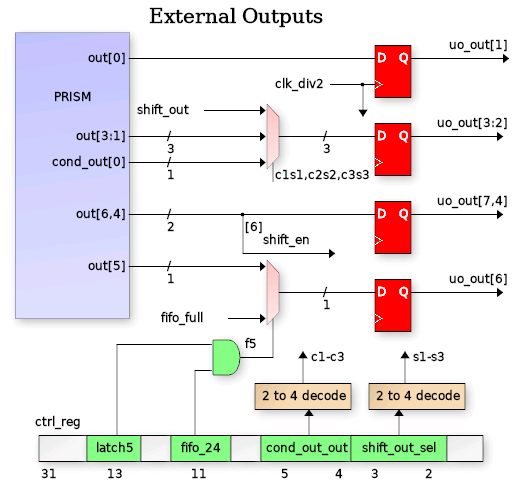
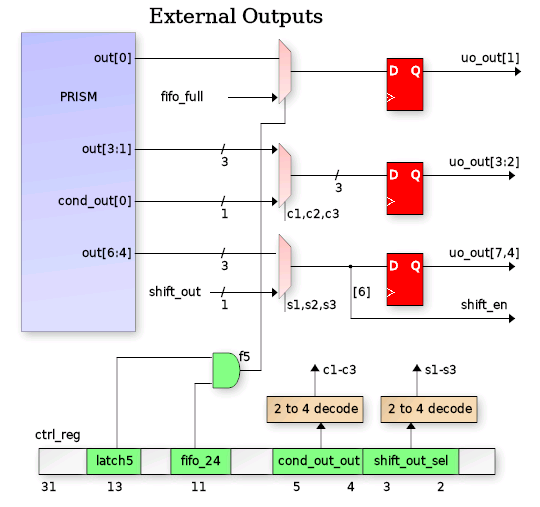
Reworked ws2812 chroma and updated documentation.

diff --git a/test/test.py b/test/test.py
@@ -61,6 +61,7 @@ async def test_project(dut):
     input_shift = input_value
     spi_data = []
     spi_rx_data = []
+    grb = 0
     chroma = ''
     spi_transfer = False
     rx_byte = 0
@@ -166,6 +167,52 @@ async def test_project(dut):
 
             # Clear spi_transfer so we don't send over and over
             spi_transfer = False;
+
+    async def simulate_ws2822_slave():
+        nonlocal chroma, grb
+        val_str = dut.uo_out.value.binstr.replace('x', '0').replace('z', '0')
+        prev_val = int(val_str, 2) & 2
+        baud = 16
+        grb  = 0
+        clk_count = 0
+        bit_count = 0;
+
+        while True:
+            # Wait for either posedge uo_out[7] (shift clk) or posedge uo_out[2] (store)
+            await RisingEdge(dut.clk)
+            if chroma != 'ws2812':
+               continue
+
+            # Keep track of the number of clocks between edges
+            clk_count += 1
+
+            # Test for change in WS2812 data line
+            val_str = dut.uo_out.value.binstr.replace('x', '0').replace('z', '0')
+            val = int(val_str, 2) & 2
+            if val == prev_val:
+               continue
+
+            # Test if the count exceeded the "reset bus" value
+            if clk_count >= 1280 and prev_val == 0:
+               clk_count = 0 
+               grb = 0
+               prev_val = val
+               continue
+            elif prev_val == 0:
+               prev_val = val
+               clk_count = 0
+               continue
+
+            # Test for transition from HIGH to LOW
+            if prev_val != 0:
+               # Shift the grb data
+               grb <<= 1
+
+               # Test for a '1' bit
+               if clk_count >= 35:
+                  grb |= 1
+
+            prev_val = val
 
     async def load_chroma(chroma, ctrl_reg):
         '''
@@ -316,28 +363,37 @@ async def test_project(dut):
         # Program count1_preload register with GRB data to send
         await tqv.write_word_reg(0x20, 0x00FF5367)
 
+        chroma = 'ws2812'
+
         # Set host bit 0 to start transfer
         await tqv.write_byte_reg(0x1b, 0x01)
 
-        for i in range(5000):
+        for i in range(6000):
             await RisingEdge(dut.clk)
 
         # Test if the interrupt was set
         dut._log.info(f"    Testing if Interrupt was set")
         assert await tqv.read_word_reg(0) & 0x80000000 != 0
 
-        # Test if the interrupt was set
+        # Test if data was received
+        assert grb == 0xFF5367
+
+        # Write new data using auto-toggle of host_in[0]
         dut._log.info(f"    Writing new data using auto-toggle")
         await tqv.write_word_reg(0x21, 0x0036FE0C)
 
         dut._log.info(f"    Testing if Interrupt was cleared")
         assert await tqv.read_word_reg(0) & 0x80000000 != 0
 
+        dut._log.info(f"    Testing if host_in[0] toggled")
+        assert await tqv.read_byte_reg(0x1b) == 0
+
         
     # Start the simulations
     cocotb.start_soon(simulate_74165())
     cocotb.start_soon(simulate_74595())
     cocotb.start_soon(simulate_spimaster())
+    cocotb.start_soon(simulate_ws2822_slave())
 
     # Interact with your design's registers through this TinyQV class.
     # This will allow the same test to be run when your design is integrated
@@ -404,12 +460,13 @@ async def test_project(dut):
     # Okay, now load up a real design and see if it does anything
     # This is the 24-Bit GPIO Chroma
     # ===========================================================
+    
+    dut._log.info("Testing ws2812 Chroma")
+    await test_chroma_ws2812()
+
     dut._log.info("Testing gpio24 Chroma")
     await test_chroma_gpio24()
  
     dut._log.info("Testing spislave Chroma")
     await test_chroma_spislave()
-    
-    dut._log.info("Testing ws2812 Chroma")
-    await test_chroma_ws2812()
     

diff --git a/chromas/output/chroma_ws2812.c b/chromas/output/chroma_ws2812.c
@@ -18,7 +18,7 @@ const uint32_t chroma_ws2812[] =
    0x00000aa0, 0x0a01b016, 
    0x00000960, 0x0a01900f, 
    0x00000a90, 0x0a01501e, 
-   0x000009b9, 0x000031b0, 
+   0x000009b9, 0x00003190, 
 
 };
 const uint32_t chroma_ws2812_count   = 8;

diff --git a/chromas/output/chroma_ws2812.py b/chromas/output/chroma_ws2812.py
@@ -14,6 +14,6 @@ chroma_ws2812 = [
    0x00000aa0, 0x0a01b016, 
    0x00000960, 0x0a01900f, 
    0x00000a90, 0x0a01501e, 
-   0x000009b9, 0x000031b0, 
+   0x000009b9, 0x00003190, 
 ]
 chroma_ws2812_ctrlReg = 0x00002500

diff --git a/test/chroma_ws2812.py b/test/chroma_ws2812.py
@@ -14,6 +14,6 @@ chroma_ws2812 = [
    0x00000aa0, 0x0a01b016, 
    0x00000960, 0x0a01900f, 
    0x00000a90, 0x0a01501e, 
-   0x000009b9, 0x000031b0, 
+   0x000009b9, 0x00003190, 
 ]
 chroma_ws2812_ctrlReg = 0x00002500

diff --git a/docs/info.md b/docs/info.md
@@ -134,10 +134,13 @@ shift operation (via enable bits in the ctrl_reg).
 
 Outputs uo_out[4:2] can be driven either directly from PRISM out[3:1], or can have muxed data:
 
- - shift_out_sel (2-bits) when non-zero selects 8 or 24 bit shift out data.
  - cond_out_sel (2-bits) when non-zero selects cond_out[0] conditional output.
 
-Output uo_out[6] can be driven either directly from PRISM out[5] or can be the "fifo_full" signal
+Outputs uo_out[7:5] can be driven either directly from PRISM out[6:4], or can have muxed data:
+
+ - shift_out_sel (2-bits) when non-zero selects 8 or 24 bit shift out data.
+
+Output uo_out[0] can be driven either directly from PRISM out[0] or can be the "fifo_full" signal
 when fifo_24 and latch5 config bits are set in ctrl_reg (more on those bits in the 3-Byte FIFO section).
 
 ## Peripherals
